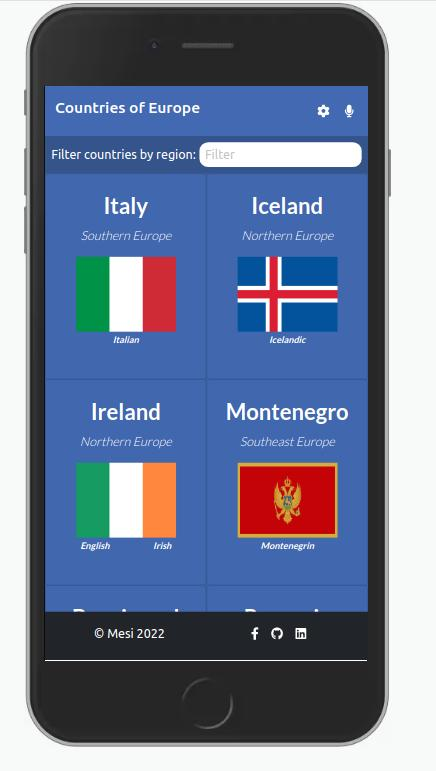
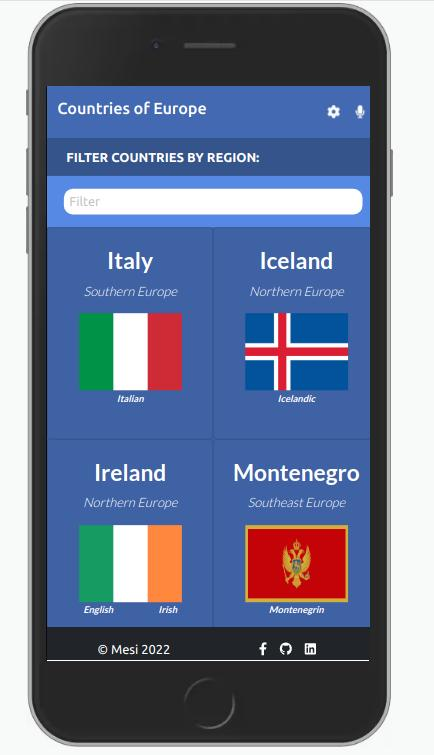
:memo: add screenshots, update README.md

diff --git a/src/Pages/Details.js b/src/Pages/Details.js
@@ -20,56 +20,51 @@ const Details = () => {
     <div className="detailsPage flex-column">
       <div className="back"><FaRegArrowAltCircleLeft onClick={handleClick} /></div>
       <div className="allStats">
-        <h1>{selectedCountry[0].name}</h1>
-        <img src={selectedCountry[0].flag} alt="flag" />
+        <div className="mainInfo">
+          <h1>{selectedCountry[0].name}</h1>
+          <img src={selectedCountry[0].flag} alt="flag" />
+        </div>
         <ul>
-          <li className="stats">
-            <em>
+          <li className="stats flex-row">
+            <p>
               Capital city:
-              {' '}
+            </p>
+            <p>
               {selectedCountry[0].capital}
-            </em>
+            </p>
           </li>
-          <li className="stats">
-            <small>
-              Subregion:
-              {' '}
-              <em>{selectedCountry[0].sub}</em>
-            </small>
+          <li className="stats flex-row">
+            <p>Subregion:</p>
+            <p>{selectedCountry[0].sub}</p>
           </li>
-          <li className="stats">
-            Official name:
-            {' '}
-            {selectedCountry[0].offName}
+          <li className="stats flex-row">
+            <p>Official name:</p>
+            <p>{selectedCountry[0].offName}</p>
           </li>
-          <li className="stats">
-            <span>
-              Spoken languages:
-              {' '}
+          <li className="stats flex-row">
+            <p>Spoken languages:</p>
+            <p>
               {Object.entries(selectedCountry[0].lang).map(([k, l]) => (
                 <small key={k}>
                   {l}
                   {' '}
                 </small>
               ))}
-            </span>
+            </p>
           </li>
-          <li className="stats">
-            Area:
-            {' '}
-            {selectedCountry[0].area}
+          <li className="stats flex-row">
+            <p>Area:</p>
+            <p>{selectedCountry[0].area}</p>
           </li>
           {(selectedCountry[0].unMember)
-            ? <li className="stats"><small>UN Member</small></li> : <li className="stats"><small>Not UN Member</small></li>}
-          <li className="stats">
-            Population:
-            {' '}
-            {selectedCountry[0].pop}
+            ? <li className="stats flex-row"><small>UN Member</small></li> : <li className="stats"><small>Not UN Member</small></li>}
+          <li className="stats flex-row">
+            <p>Population:</p>
+            <p>{selectedCountry[0].pop}</p>
           </li>
-          <li className="stats">
-            Time-zones:
-            {' '}
-            {selectedCountry[0].time}
+          <li className="stats flex-row">
+            <p>Time-zones:</p>
+            <p>{selectedCountry[0].time}</p>
           </li>
         </ul>
       </div>

diff --git a/src/Styles/AllCountries.css b/src/Styles/AllCountries.css
@@ -5,16 +5,24 @@
 .filter {
   width: 100%;
   height: 3rem;
-  padding: 0 0.5rem;
+  padding: 0.9rem 0.5rem 0.9rem 1.5rem;
   background-color: var(--dark-blue);
   color: var(--white);
-  justify-content: space-between;
+  text-transform: uppercase;
   align-items: center;
-  border: none;
+  font-weight: 700;
 }
 
-.filter input {
-  width: 13rem;
+.inputPlace {
+  margin: 0;
+  height: 4rem;
+  padding: 2rem auto;
+  background-color: var(--light-blue);
+  justify-content: center;
+}
+
+input {
+  width: 90%;
   height: 2rem;
   border-radius: 0.7rem;
   background-color: var(--white);
@@ -27,5 +35,6 @@
 }
 
 .card {
+  background-color: var(--darker-blue);
   padding: 1.5rem 1rem;
 }

diff --git a/src/Styles/Details.css b/src/Styles/Details.css
@@ -27,14 +27,28 @@ ul {
 }
 
 .allStats {
-  padding: 2rem 0;
+  padding: 0;
+}
+
+.mainInfo {
+  padding: 3rem;
+  background-color: var(--light-blue);
 }
 
 .detailsPage ul {
   text-decoration: none;
   list-style: none;
   line-height: 1.8rem;
-  padding: 3rem 0;
+  padding: 0;
+}
+
+.detailsPage li {
+  padding: 0 1rem;
+  line-height: 3rem;
+  font-weight: 700;
+  text-transform: uppercase;
+  justify-content: space-between;
+  align-items: center;
 }
 
 .detailsPage li:nth-child(odd) {

diff --git a/src/Components/AllCountries.js b/src/Components/AllCountries.js
@@ -27,8 +27,10 @@ const AllCountries = () => {
 
   return (
     <div className="countriesContainer">
-      <div className="filter flex-row">
-        Filter countries by region:
+      <div className="filter flex-col">
+        <p>Filter countries by region:</p>
+      </div>
+      <div className="inputPlace flex-row">
         <input type="text" placeholder="Filter" onChange={handleChange} />
       </div>
       <div className="cards">

diff --git a/src/index.css b/src/index.css
@@ -3,7 +3,8 @@
   --blue: #4369b2;
   --dark-blue: #35548b;
   --darker-blue: #3f62a4;
-  --light-blue: #4167ae;
+  --lighter-blue: #4167ae;
+  --light-blue: #5689e4;
   --grey: rgb(196, 196, 196);
   --black: #1d1d1d;
 }

diff --git a/README.md b/README.md
@@ -1,12 +1,9 @@
 # Travel-Guide
 
-# SOON TO BE UPDATED...
-
 <img alt="Version" src="https://img.shields.io/badge/version-1.0.0-blue.svg?cacheSeconds=2592000" />
 
-> This website is a basic travel guide with informations about the european countries.
-> 
-It is created with [Create-React-App](https://github.com/facebook/create-react-app)
+> This website is a basic travel guide with informations about the european countries fetching from an external API.
+> It is created with [Create-React-App](https://github.com/facebook/create-react-app)
 
 ---
 
@@ -16,7 +13,7 @@ It is created with [Create-React-App](https://github.com/facebook/create-react-a
 
 ## Live version
 
-For the live version of this project visit the following [Netlify](https:// .app/) and [Heroku](https:// .herokuapp.com/) links.
+For the live version of this project visit the following [Netlify](https://harmonious-elf-f99081.netlify.app) 
 
 ## Get started
 
@@ -42,9 +39,8 @@ For the live version of this project visit the following [Netlify](https:// .app
 
 #### :bust_in_silhouette: Molnar Emese 
   - [Mesi21](https://github.com/Mesi21)
-  - [LinkedIn](https://www.linkedin.com/in/emesemesimolnar/).  
+  - [LinkedIn](https://www.linkedin.com/in/emesemesimolnar/)  
   - [Twitter](https://twitter.com/buksimesi21) 
-
 
 ## 🤝 Contributing
 All contributions, issues and feature requests are welcome!
@@ -56,11 +52,13 @@ All contributions, issues and feature requests are welcome!
 5. Create a new Pull Request
 
 # Acknowledgments
-[Nelson Sakwa](https://www.behance.net/sakwadesignstudio) for a great design.
+- [Nelson Sakwa](https://www.behance.net/sakwadesignstudio) for a great design.
+- [RestCountries API](https://restcountries.com/v3.1).
+- [Microverse](https://www.microverse.org/).
 
 # Show your support:
 
-Give a :star: if you liked the app
+Give a :star: if you liked the app.
 
 # License
 - This project is [MIT](LICENSE.md) licensed.
